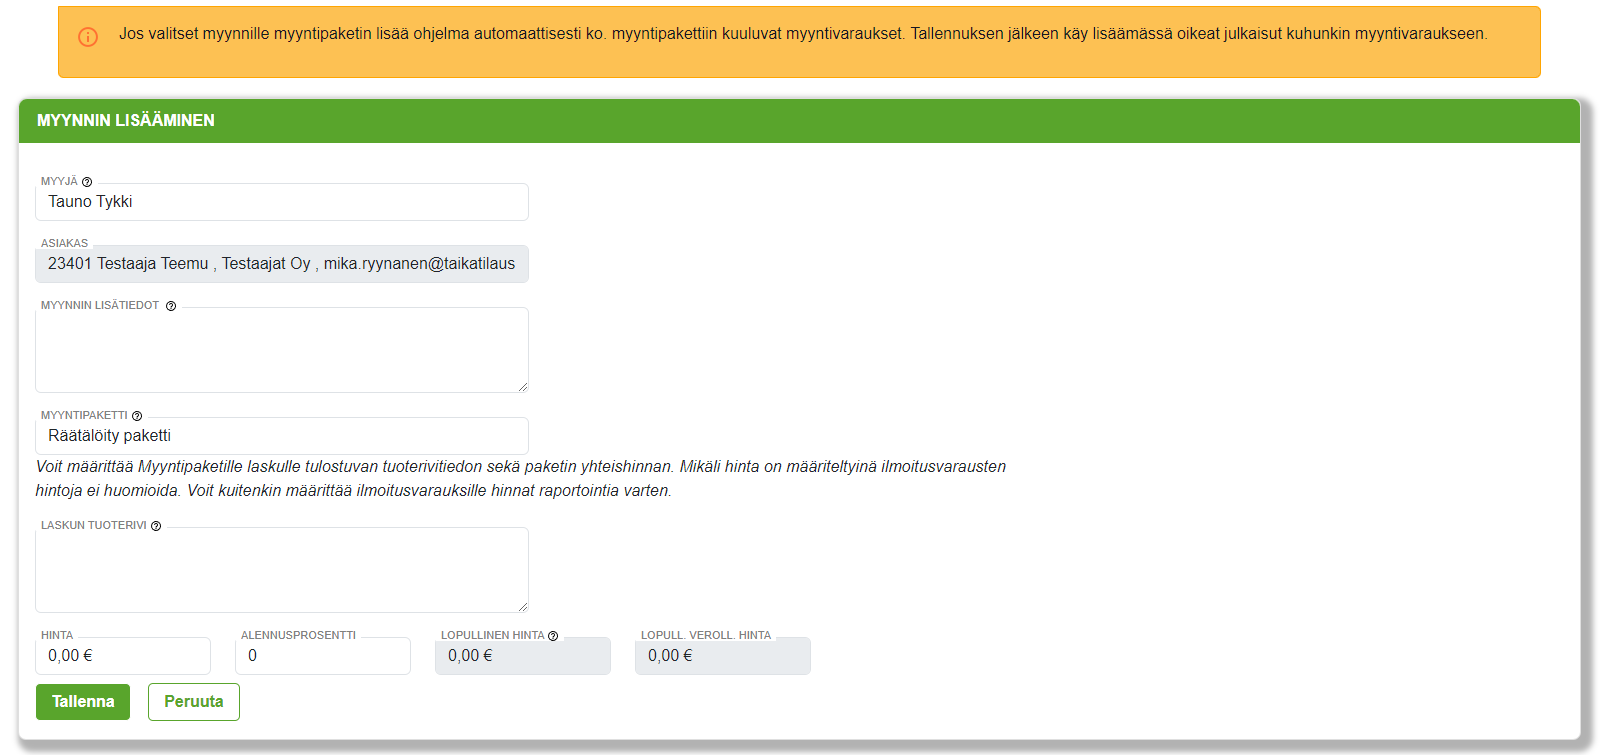
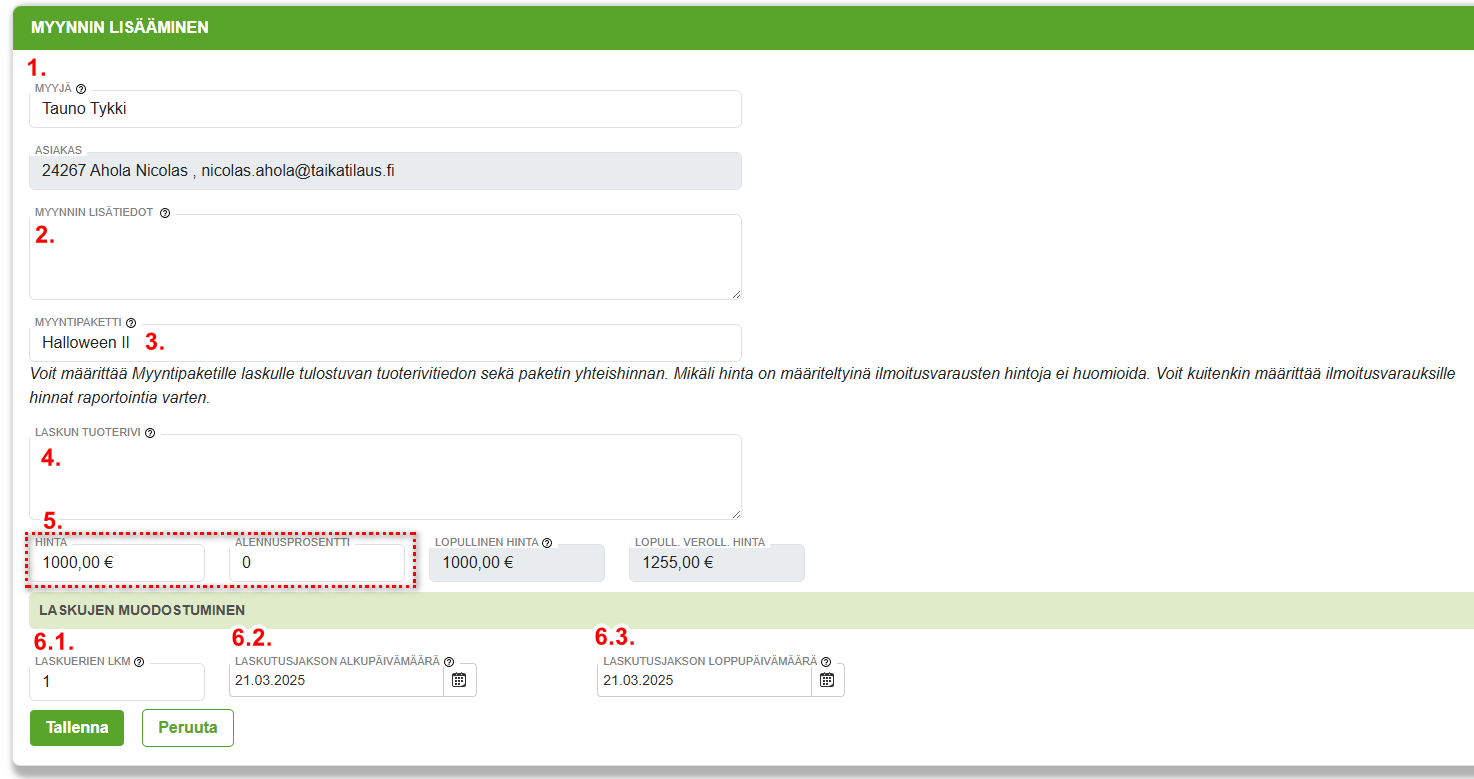
ilmoituspaketti päiv

Changed region(s): [[0.0, 0.0, 1.0, 1.0], [0.4369, 0.6702, 0.5305, 0.7311]]

diff --git a/docs/ohjeet/ilmoitustenhallinta/ilmoitusasiakas.md b/docs/ohjeet/ilmoitustenhallinta/ilmoitusasiakas.md
@@ -215,22 +215,19 @@ Myytävät ilmoituspaketit pitää olla valmiiksi luotuina <a href="/docs/ohjeet
 
 Myyntipaketin luomiseen pääset painamalla **Lisää ilmoituspaketti** –painiketta.
 
-Oletuksena myyntiin on lisättty asiakkaaseen liitetty myyjä. Voit kuitenkin vaihtaa **myyjän** tarvittaessa.
+#### Ilmoituspaketin muokkaus: 
 
-**Myynnin lisätiedot** –kenttään voi kirjoittaa myyntiin liittyviä tietoja, jotka eivät näy asiakkaalle, eikä käsittelijöille.
-
-**Myyntipaketti**–valikosta valitun paketin mukaisesti myyntiin lisätään automaattisesti kaikki kyseisen myyntipaketin ilmoitusvaraukset.
-
-Ohjelma lisää automaattisesti kyseiseen myyntipakettiin kuuluvat ilmoitusvaraukset, mutta **tallennuksen jälkeen pitää vielä lisätä mihin julkaisuun kyseiset ilmoitukset tulevat**.
-
-**Laskun tuoterivi** –kenttään voi määrittää myyntipaketin laskulle tulostuvan tuoterivitiedon. 
-
-Voit myös määrittää paketin verottoman **yhteishinnan**. Mikäli se on määritelty, yksittäisten ilmoitusvarauksien hintoja **ei huomioida**. Lopulliset hintatiedot lasketaan **automaattisesti** syötetystä **Hinta** ja **Alennusprosentti**-luvuista.
-
-**Laskujen muodostuminen** –osiossa voi määrittää (ilmestyy näkyviin, kun paketin Hinta–tieto on ensin annettu)
-- Kuinka moneen **laskutuserään** paketin kokonaishinta jaksotetaan
-- Koska paketin **ensimmäinen erä** laskutetaan
-- Koska paketin **viimeinen erä** laskutetaan
+1. Oletuksena myyntiin on lisättty asiakkaaseen liitetty myyjä. Voit kuitenkin vaihtaa **myyjän** tarvittaessa.
+2. **Myynnin lisätiedot** –kenttään voi kirjoittaa myyntiin liittyviä tietoja, jotka eivät näy asiakkaalle, eikä käsittelijöille.
+3. **Myyntipaketti**–valikosta valitun paketin mukaisesti myyntiin lisätään automaattisesti kaikki kyseisen myyntipaketin ilmoitusvaraukset.
+    - Ohjelma lisää automaattisesti kyseiseen myyntipakettiin kuuluvat ilmoitusvaraukset, mutta **tallennuksen jälkeen pitää vielä lisätä mihin julkaisuun kyseiset ilmoitukset tulevat**.
+4. **Laskun tuoterivi** –kenttään voi määrittää myyntipaketin laskulle tulostuvan tuoterivitiedon. 
+5. Voit myös määrittää paketin verottoman **yhteishinnan**. Mikäli se on määritelty, yksittäisten ilmoitusvarauksien hintoja **ei huomioida**.  
+    - Lopulliset hintatiedot lasketaan **automaattisesti** syötetystä **Hinta** ja **Alennusprosentti**-luvuista.
+6. **Laskujen muodostuminen** –osiossa voi määrittää (ilmestyy näkyviin, kun paketin Hinta–tieto on ensin annettu)
+    - **6.1** Kuinka moneen **laskutuserään** paketin kokonaishinta jaksotetaan
+    - **6.2.** Koska paketin **ensimmäinen erä** laskutetaan
+    - **6.3.** Koska paketin **viimeinen erä** laskutetaan
 
 ![Myynti - Myynnin lisääminen](/img/ohjeet/ilmoituspaketti.png)
 *Myynnin lisääminen -lomake*
